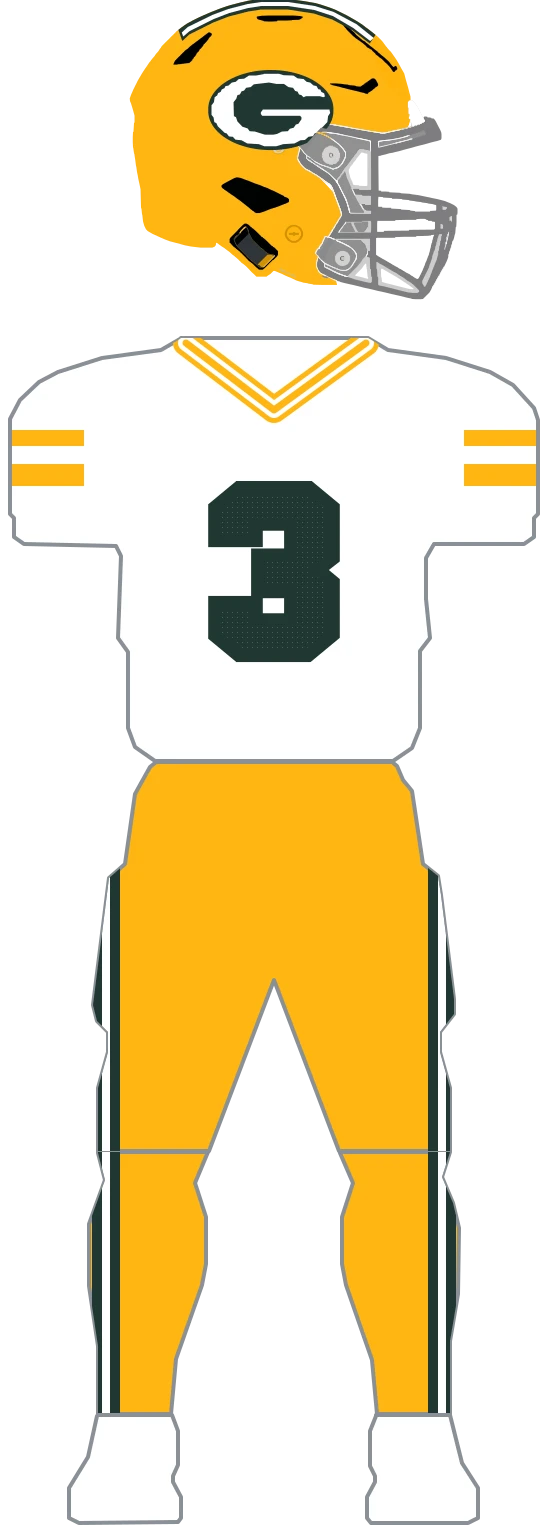
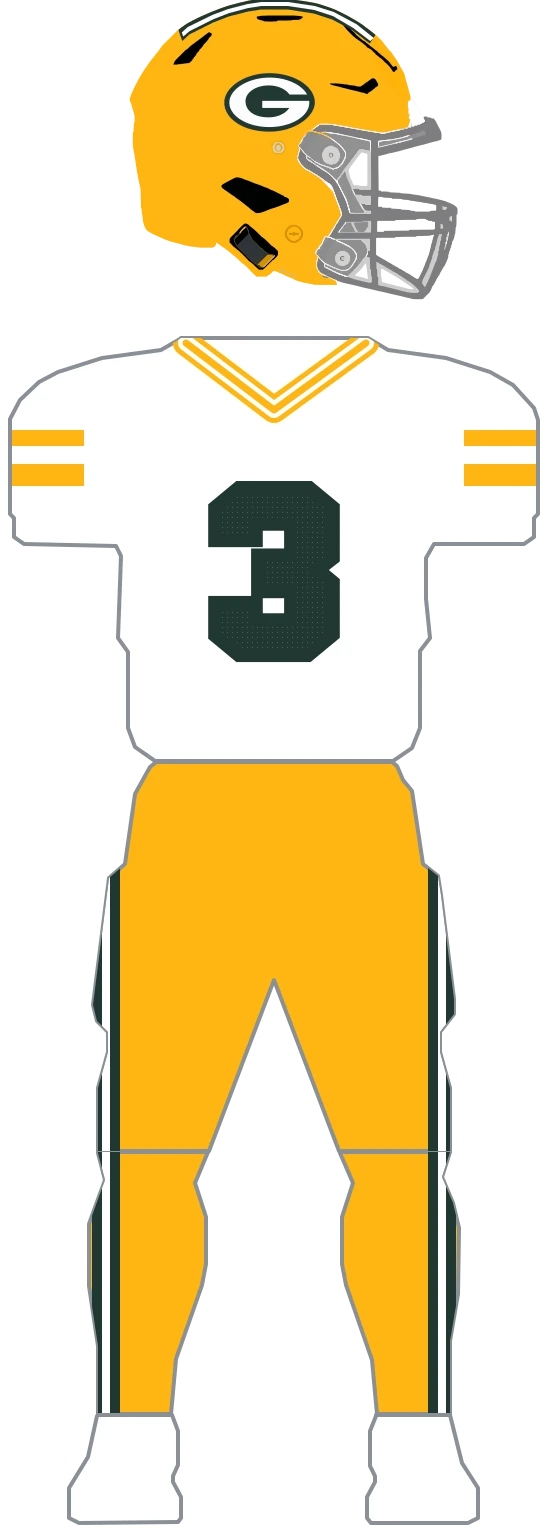
fix(uniforms): refine Packers helmet decal (#806)

Changed region(s): [[0.3643, 0.0306, 0.6071, 0.1225]]

diff --git a/web/lib/uniforms/teams/packers-g.ts b/web/lib/uniforms/teams/packers-g.ts
@@ -1,0 +1,79 @@
+// Green Bay's supplied G source, kept as its three foreground paths. The source's white canvas
+// and grey/white frame artifacts are deliberately absent; this module bakes the genuine mark into
+// the helmet coordinate system without adding a transform field to UniformLayer.
+
+const SOURCE_PATHS = [
+  {
+    id: 'gold',
+    fill: '#FEB415',
+    tx: 991,
+    ty: 513,
+    d: 'm0 0h57l30 1 45 3 47 5 47 7 42 8 40 9 44 12 35 11 36 13 34 14 33 15 28 14 23 13 27 16 15 10 16 11 14 10 18 14 13 11 11 9 16 15 27 27 7 8 12 14 13 17 13 18 12 19 10 18 8 16 10 22 7 19 9 31 6 31 3 27 1 18v18l-3 31-6 29-8 26-10 25-12 25-13 23-16 24-10 14-16 20-12 14-9 10-7 7-7 8-9 9-8 7-15 14-11 9-13 11-13 10-19 14-16 11-20 13-15 9-24 14-23 12-15 8-28 13-28 12-42 16-36 12-34 10-44 11-55 11-48 7-36 4-40 3-23 1h-79l-57-3-51-5-45-6-50-9-40-9-42-11-35-11-35-12-30-12-36-16-19-9-19-10-28-16-21-13-25-17-16-12-13-10-15-13-8-7-12-11-27-27-9-11-8-9-13-17-14-20-13-21-6-10-8-16-11-24-10-28-7-25-5-24-4-30-1-12v-42l3-28 6-31 9-31 11-28 13-27 14-24 16-24 10-14 14-17 13-15 12-13 23-23 8-7 10-9 11-9 16-13 19-14 16-11 20-13 25-15 25-14 44-22 37-16 37-14 38-13 42-12 44-11 40-8 44-7 34-4 18-2 43-3zm-13 24-49 3-46 5-46 7-36 7-43 10-42 12-40 13-32 12-31 13-26 12-23 11-22 12-23 13-24 15-25 17-19 14-14 11-13 11-8 7-10 9-8 7-23 23-7 8-9 10-8 10-10 13-10 14-11 17-10 17-10 19-11 26-11 33-6 27-4 31v43l3 28 5 26 6 22 7 21 11 26 11 22 13 22 15 22 10 13 13 16 18 20 21 21 8 7 10 9 14 11 15 12 14 10 30 20 27 16 26 14 28 14 30 13 30 12 29 10 28 9 43 12 49 11 44 8 43 6 38 4 40 3 27 1h79l27-1 49-4 47-6 41-7 38-8 40-10 37-11 36-12 36-14 26-11 34-16 29-15 24-14 20-12 28-19 14-10 13-10 10-8 16-13 13-12 8-7 5-4v-2l4-2 15-15 7-8 12-13 11-14 9-11 12-17 10-15 10-17 10-18 12-27 10-30 6-26 3-20 1-13v-22l-2-26-4-26-6-25-7-22-8-21-10-22-13-23-9-14-13-19-14-18-11-13-11-12-12-13-6-6h-2v-2l-8-7-14-13-11-9-16-13-18-13-17-12-25-16-13-8-11-6-26-14-24-12-31-14-35-14-34-12-31-10-36-10-37-9-52-10-49-7-48-5-30-2-23-1z',
+  },
+  {
+    id: 'green',
+    fill: '#213832',
+    tx: 978,
+    ty: 537,
+    d: 'm0 0h81l39 2 45 4 47 6 41 7 43 9 43 11 39 12 35 12 33 13 30 13 29 14 27 14 13 8 11 6 24 15 16 11 18 13 14 11 10 8 14 12 12 11 6 5v2l4 2 12 12 7 8 12 13 8 10 14 18 10 15 12 19 10 18 8 16 8 19 7 20 7 24 5 25 3 25 1 16v22l-2 21-5 26-7 25-9 24-9 20-12 22-15 24-13 18-7 9-11 14-11 12-7 8-14 15-8 8h-2v2l-8 7-12 11-8 7-16 13-18 14-17 12-33 22-27 16-22 12-23 12-32 15-34 14-35 13-36 12-47 13-39 9-42 8-49 7-39 4-27 2-27 1h-79l-27-1-51-4-50-6-43-7-40-8-37-9-36-10-43-14-24-9-34-14-26-12-28-14-23-13-25-15-25-17-19-14-16-13-11-9-13-12-8-7-22-22-7-8-11-13-13-17-10-14-12-19-10-17-11-22-11-27-8-24-6-25-4-25-2-20v-43l4-31 6-27 12-36 13-29 13-24 13-20 10-14 9-12 14-17 12-13 7-8 23-23 8-7 10-9 14-11 11-9 16-12 17-12 15-10 21-13 26-15 34-18 30-14 33-14 29-11 41-14 49-14 47-11 44-8 50-7 42-4z',
+  },
+  {
+    id: 'white',
+    fill: '#FCFCFC',
+    tx: 988,
+    ty: 610,
+    d: 'm0 0h68l50 3 41 4 41 6 37 7 36 8 43 12 40 13 29 11 28 12 30 14 25 13 27 16 22 14 18 13 16 12 17 14 13 12 8 7 15 15 7 8 9 10 11 14 11 15 11 17 6 10v1l-15 1h-278l-9-11-11-14-7-7-7-8-13-12-14-11-12-9-15-10-15-9-22-12-27-12-24-9-29-9-29-7-28-5-23-3-35-3-30-1-42 2-35 4-35 6-33 8-29 9-21 8-25 11-20 10-17 10-21 14-13 10-13 11-12 11-11 11-9 11-10 13-10 16-11 21-8 21-5 20-3 22v27l3 26 5 24 8 24 14 29 12 19 11 14 11 12 7 8 8 7 14 12 18 13 20 12 23 12 23 10 36 12 22 6 40 8 39 5 25 2 21 1h43l32-2 32-4 36-7 33-9 31-11 23-10 16-8 19-10 19-12 18-13 16-13 15-14 12-12 9-11 14-18 2-4-3 1-337 1h-109l-1-1-1-27v-90h781l2 6 1 13v23l-3 27-5 24-7 22-7 18-12 25-10 17-11 16-9 12-9 11-11 13-7 7-7 8-15 14-10 9-11 9-18 14-17 12-23 15-24 14-24 13-31 15-31 13-29 11-36 12-43 12-34 8-36 7-37 6-42 5-37 3-34 2h-78l-55-4-45-5-45-7-45-9-47-12-39-12-39-14-29-12-26-12-30-15-24-14-18-11-15-10-18-13-14-11-13-11-10-9-15-14-8-8-7-8-9-10-11-14-13-18-11-18-10-18-9-20-7-19-7-27-4-25-1-9v-38l4-28 6-24 7-21 11-24 10-19 13-20 8-11 10-13 11-13 11-12 24-24 8-7 13-11 17-13 16-12 21-14 21-13 21-12 29-15 27-13 36-15 36-13 31-10 36-10 38-9 36-7 39-6 36-4 42-3z',
+  },
+] as const;
+
+const SCALE = 0.12;
+const OFFSET_X = 296;
+const OFFSET_Y = 150;
+const TOKEN = /[a-z]|[-+]?(?:\d*\.\d+|\d+\.?)(?:e[-+]?\d+)?/g;
+
+function scaled(value: string): string {
+  return (Number(value) * SCALE).toFixed(3);
+}
+
+// Every path command in the supplied mark is relative (m/h/v/l/z). Translating the first move
+// and scaling each remaining delta preserves every foreground contour and its source paint order.
+function bakePath(tx: number, ty: number, d: string): string {
+  const tokens = d.match(TOKEN) ?? [];
+  const out: string[] = [];
+  let index = 0;
+  let command = '';
+  let firstMove = true;
+
+  while (index < tokens.length) {
+    if (/^[a-z]$/.test(tokens[index])) command = tokens[index++];
+    if (command === 'z') {
+      out.push('Z');
+      command = '';
+    } else if (command === 'm') {
+      const x = tokens[index++];
+      const y = tokens[index++];
+      if (firstMove) {
+        out.push(
+          `M${((tx + Number(x)) * SCALE + OFFSET_X).toFixed(3)},${((ty + Number(y)) * SCALE + OFFSET_Y).toFixed(3)}`
+        );
+        firstMove = false;
+      } else {
+        out.push(`m${scaled(x)},${scaled(y)}`);
+      }
+      command = 'l';
+    } else if (command === 'l') {
+      out.push(`l${scaled(tokens[index++])},${scaled(tokens[index++])}`);
+    } else if (command === 'h' || command === 'v') {
+      out.push(`${command}${scaled(tokens[index++])}`);
+    } else {
+      throw new Error(`Unsupported Packers G path command: ${command}`);
+    }
+  }
+  return out.join(' ');
+}
+
+export const PACKERS_G_MARK_LAYERS = SOURCE_PATHS.map((path) => ({
+  id: `packers-decal-${path.id}`,
+  d: bakePath(path.tx, path.ty, path.d),
+  fill: path.fill,
+}));

diff --git a/web/lib/uniforms/teams/packers.ts b/web/lib/uniforms/teams/packers.ts
@@ -12,15 +12,6 @@ export const PACKERS_GREEN = '#203731';
 // The 1923 kit's leather shell and bronze-gold numerals have no token on that kit's palette.
 export const PACKERS_1923_LEATHER = '#7B4A2A';
 
-// Traced as the mark's WHITE region only. That region's boundary is the oval minus the glyph, so
-// painting a slightly larger ellipse beneath it in green yields both the oval's green rim and the
-// green glyph in one pass — no second trace of the letterform, whose ~2px stroke shreds into
-// dashes at this source resolution. The white path must render fill-rule evenodd.
-export const PACKERS_DECAL_OVAL_PATH =
-  'M296.0,288.1 A125.2,77.9 0 1,0 546.3,288.1 A125.2,77.9 0 1,0 296.0,288.1 Z';
-export const PACKERS_DECAL_FIELD_PATH =
-  'M406.8,215.6 L437.6,215.6 L446.7,218.4 L466.3,219.1 L474.7,224.7 L486.6,226.1 L492.9,231.7 L499.9,233.1 L506.2,238.7 L512.5,240.1 L516.0,246.4 L520.2,247.1 L522.3,252.0 L527.9,254.8 L529.3,261.1 L525.8,262.5 L519.5,260.4 L491.5,260.4 L486.6,262.5 L482.4,258.3 L477.5,256.9 L474.7,251.3 L469.8,249.9 L465.6,243.6 L456.5,242.2 L447.4,235.9 L432.7,235.9 L417.3,233.1 L387.2,236.6 L380.9,242.2 L371.8,243.6 L367.6,249.2 L362.7,250.6 L359.2,256.9 L354.3,258.3 L352.2,265.3 L346.6,272.3 L347.3,300.3 L351.5,302.4 L354.3,310.8 L364.1,321.3 L374.6,324.8 L378.8,330.4 L389.3,331.1 L409.6,337.4 L425.7,337.4 L433.4,336.0 L443.2,331.1 L455.1,330.4 L459.3,325.5 L467.0,323.4 L471.2,317.1 L476.1,315.7 L482.4,306.6 L482.4,302.4 L479.6,299.6 L404.0,299.6 L401.2,296.1 L401.2,292.6 L405.4,287.0 L538.4,287.0 L539.8,294.0 L535.6,300.3 L534.2,312.2 L519.5,327.6 L516.0,329.0 L513.2,333.9 L509.0,334.6 L505.5,340.2 L496.4,341.6 L489.4,347.9 L480.3,348.6 L468.4,354.9 L446.0,356.3 L432.0,360.5 L408.2,360.5 L397.0,356.3 L373.9,354.9 L362.7,348.6 L350.1,347.2 L345.2,341.6 L337.5,340.9 L332.6,334.6 L329.1,333.9 L315.1,320.6 L312.3,314.3 L308.1,312.2 L306.7,303.1 L302.5,297.5 L302.5,278.6 L307.4,272.3 L308.8,262.5 L313.7,259.0 L315.8,254.1 L320.7,252.0 L322.8,247.1 L328.4,244.3 L330.5,240.1 L336.1,239.4 L343.1,233.1 L350.8,231.7 L357.1,226.1 L367.6,225.4 L377.4,219.1 L391.4,219.1 L406.8,216.3 Z';
-
 // The sleeve stripe set: gold / white / gold, banded across the outer half of each sleeve. The
 // reference stacks them at y=475-491, 491-509 and 509-531 in mannequin space.
 export const PACKERS_SLEEVE_GOLD_UPPER_LEFT = 'M32,475 L104,475 L104,491 L32,491 Z';

diff --git a/web/lib/uniforms/teams/packers.parts.ts b/web/lib/uniforms/teams/packers.parts.ts
@@ -13,8 +13,6 @@
 
 import {
   PACKERS_COLLAR_WIDTHS,
-  PACKERS_DECAL_FIELD_PATH,
-  PACKERS_DECAL_OVAL_PATH,
   PACKERS_HELMET_STRIPE_INNER_PATH,
   PACKERS_HELMET_STRIPE_PATH,
   PACKERS_PANTS_GREEN_LEFT,
@@ -28,6 +26,7 @@ import {
   PACKERS_SLEEVE_WHITE_LEFT,
   PACKERS_SLEEVE_WHITE_RIGHT,
 } from './packers';
+import { PACKERS_G_MARK_LAYERS } from './packers-g';
 import { compileParts, type PartLayer, type TeamPartsDefinition, type UniformPart } from './parts';
 import type { UniformSurface } from './types';
 
@@ -144,28 +143,16 @@ function helmetStripe(): PartLayer[] {
   ];
 }
 
-// The G decal: white field over a green oval; the green glyph reads through the evenodd counter.
+// The supplied three-color G, in source paint order. The compiler resolves each literal source
+// color through the palette below so this shared helmet part remains independent of kit-row colors.
 function decal(): PartLayer[] {
-  return [
-    {
-      id: 'packers-decal-oval',
-      surface: 'helmet',
-      d: PACKERS_DECAL_OVAL_PATH,
-      clip: true,
-      kind: 'fill',
-      fillRule: 'evenodd',
-      fill: 'green',
-    },
-    {
-      id: 'packers-decal-field',
-      surface: 'helmet',
-      d: PACKERS_DECAL_FIELD_PATH,
-      clip: true,
-      kind: 'fill',
-      fillRule: 'evenodd',
-      fill: 'white',
-    },
-  ];
+  return PACKERS_G_MARK_LAYERS.map((layer): PartLayer => ({
+    ...layer,
+    surface: 'helmet',
+    clip: true,
+    kind: 'fill',
+    fill: layer.fill,
+  }));
 }
 
 // The gold shell with the stripe set and the G decal — shared by home and away.
@@ -300,6 +287,11 @@ export const PACKERS_PARTS: TeamPartsDefinition = {
     green: '#203731',
     gold: '#FFB612',
     white: '#FFFFFF',
+    // Exact foreground colors from the supplied Packers G SVG, kept separate from construction
+    // colors because the source green, white, and gold are each visibly distinct.
+    '#213832': '#213832',
+    '#FCFCFC': '#FCFCFC',
+    '#FEB415': '#FEB415',
     // The 1923 leather shell and pants, sampled from the composite (no token; see packers.ts).
     leather: '#7B4A2A',
     // The modern gold/white shell's cage — mid-grey, sampled from the GUD composite (packers
